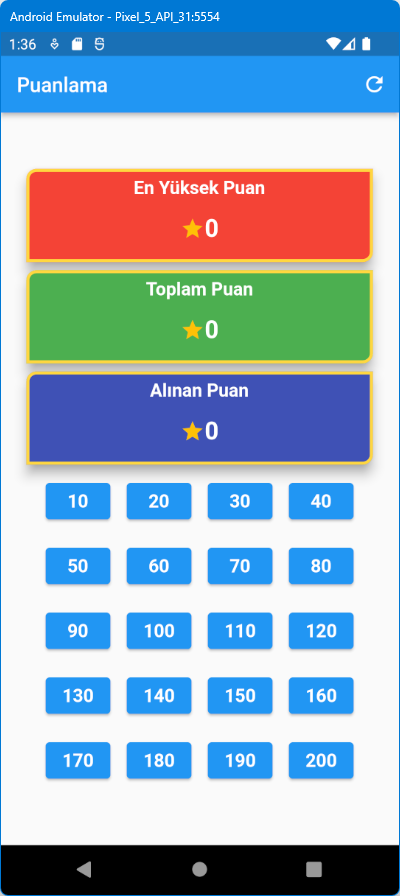
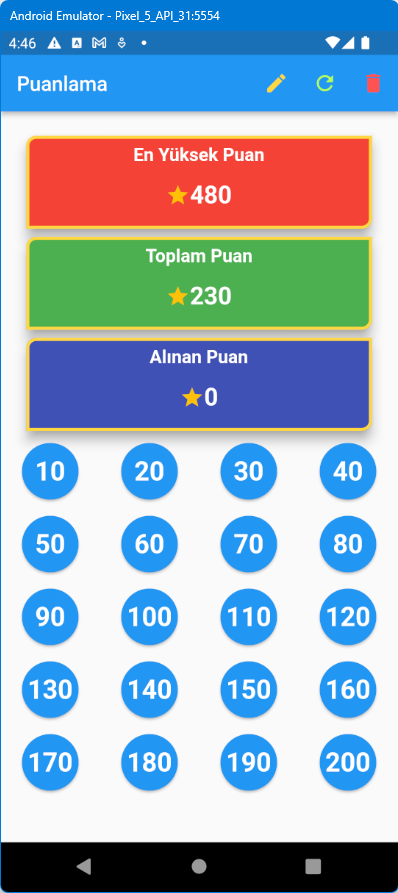
Puanlama App

diff --git a/puanlama/README.md b/puanlama/README.md
@@ -3,6 +3,10 @@
 Ben bilirim yarışması için evde izlerken kendimizi puanlamak için oluşturulmuş eğlencelik uygulama
 shared_prefs kütüphanesi kullanıldı.
 <HR>
+- Hatalı girilen puanın silinmesi eklendi.
+- Tüm Puanları silme eklendi.
+- Yatay ve dikey konum değişikliklerinde taşma engellendi.
+- Butonlar büyütülüp, yuvarlaklaştırıldı. <BR>
 <img src="https://github.com/VedatBiner/flutter-codes/blob/master/puanlama/screen_shots/img-01.png" height="400em"/>
 <img src="https://github.com/VedatBiner/flutter-codes/blob/master/puanlama/screen_shots/img-02.png" height="400em"/>
 <img src="https://github.com/VedatBiner/flutter-codes/blob/master/puanlama/screen_shots/img-03.png" height="400em"/>
